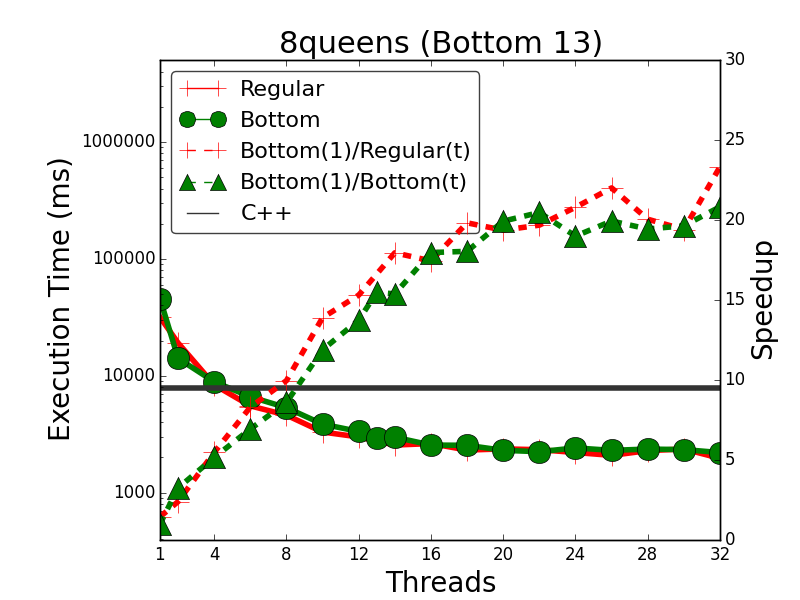
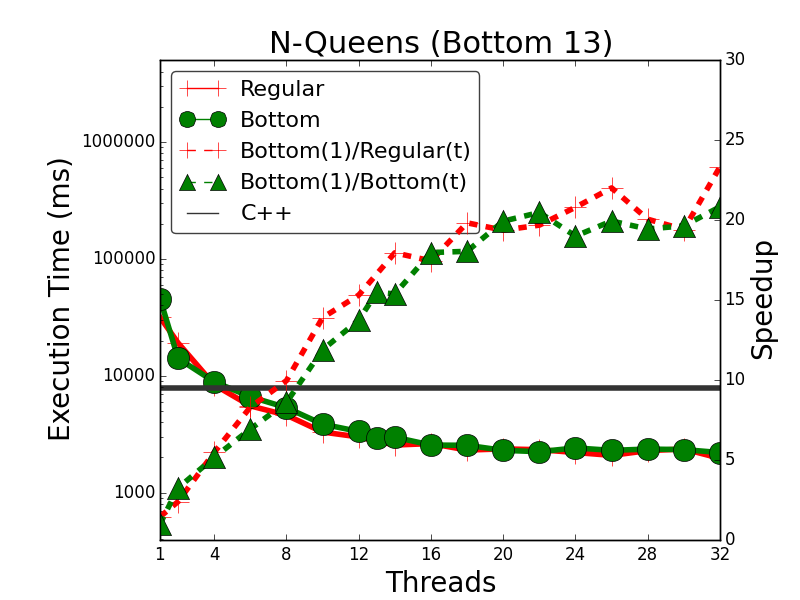
More corrections.

Changed region(s): [[0.3125, 0.03, 0.7812, 0.09]]

diff --git a/statement.tex b/statement.tex
@@ -1,13 +1,15 @@
 
 We propose a new linear logic programming language, called Linear Meld~(LM),
-designed to write declarative parallel graph based programs for multicore
-architectures.  LM is a novel programming language that makes coordination a
-first-class programming construct and semantically equivalent to computation.
-Coordination allows the programmer to write declarative code that reasons about
-the underlying parallel architecture in order to improve the run time and
-scalability of programs. Since LM is based on logical foundations, programs are
-amenable to reasoning, even in the presence of coordination. We will support our
-thesis through seven major contributions:
+designed to write \textbf{declarative parallel graph based programs} for
+multicore architectures. LM is a novel programming language that makes
+\textbf{coordination} a first-class programming construct that is
+\textbf{semantically equivalent to computation}. Coordination allows the
+programmer to write declarative code that reasons about the underlying parallel
+architecture in order to improve the run time and scalability of programs. Since
+LM is based on logical foundations, programs are amenable to reasoning, even in
+the presence of coordination.
+
+We support our thesis through seven major contributions:
 
 \begin{description}
    
@@ -27,14 +29,14 @@ thesis through seven major contributions:
    computation and partitions data and is semantically equivalent to standard
    computation facts. We used the concept of action facts and sensing facts to
    coordinate the execution of programs. We can increase the priority of certain
-   nodes during runtime according to the state of the computation and to the
-   state of the runtime in order to make better scheduling decisions so that
-   programs can be more scalable and run faster.
+   nodes according to the state of the computation and to the state of the
+   runtime in order to make better scheduling decisions so that programs can be
+   more scalable and run faster.
 
    \item[Thread-Based Facts]
 
    While LM can be classified as a programming language with implicit
-   parallelism, it introduces thread facts to support some form of explicit
+   parallelism, it introduces thread facts to support some form of declarative explicit
    parallelism. Thread facts allow the programmer to reason about the state of
    the underlying parallel architecture, namely the execution thread, by
    managing facts about each thread. Thread facts can be used along with regular
@@ -46,9 +48,10 @@ thesis through seven major contributions:
    
    \item[Provability]
    
-   We leveraged the logical foundations of LM to show how to prove correctness
+   We leveraged the logical foundations of LM to show how to prove the correctness
    of programs. We also show that coordination facts do not change those
-   correctness proofs but only improve run time, scalability or memory usage.
+   correctness proofs but only improve run time, scalability or memory usage. We
+   also show how to reason with thread-based facts.
 
 \item[Efficient Runtime and Compilation]
 
@@ -58,7 +61,7 @@ thesis through seven major contributions:
    structures. We have achieved a sequential performance that is less than one
    order of magnitude slower than hand-written sequential C++ programs and is
    competitive with some more mature frameworks such as
-   GraphLab~\cite{GraphLab2010}.
+   GraphLab~\cite{GraphLab2010} or Ligra~\cite{Shun:2013:LLG:2517327.2442530}.
 
 \item[Multicore Parallelism]
    

diff --git a/introduction.tex b/introduction.tex
@@ -31,19 +31,21 @@ In the context of the Claytronics project~\cite{goldstein-computer05},
 Ashley-Rollman et al.~\cite{ashley-rollman-iclp09,
 ashley-rollman-derosa-iros07wksp} created Meld, a logic programming language
 suited to program massively distributed systems made of modular robots with a
-dynamic topology. Meld programs can derive actions that are used to make the
-robots act on the outside world. The distribution of computation is done by
+dynamic topology. Meld programs can derive actions that are used by the
+robots to act on the outside world. The distribution of computation is done by
 first partitioning the program state across the robots and then by making the
 computation local to the robot. Because Meld programs are sets of logical
-clauses, they are more amenable to proofs.
+clauses, they are more amenable to proofs than programs written using
+lower-level programming abstractions.
 
 In this thesis, we present Linear Meld (LM), a new language for parallel
-programming over graph data structures that extends the original Meld with
-linear logic and coordination. Linear logic gives the language a structured way
-to manage state, allowing the programmer to assert and retract logical facts.
-While the original Meld sees a running program as an ensemble of robots, LM sees
-the program as a graph of node data structures, where each node performs
-computation independently and is able to communicate with other nodes.
+programming over graph data structures that extends the original Meld
+programming language with linear logic and coordination. Linear logic gives the
+language a structured way to manage state, allowing the programmer to assert and
+retract logical facts.  While the original Meld sees a running program as an
+ensemble of robots, LM sees the program as a graph of node data structures,
+where each node performs computation independently of other nodes and is able to
+communicate with its neighborhood of nodes.
 
 LM introduces a new mechanism, called coordination, that is semantically
 equivalent to regular computation and allows the programmer to reason about

diff --git a/ack.tex b/ack.tex
@@ -2,10 +2,10 @@ I would like to thank my advisors, for their help and encouragement during the
 development of this thesis. I thank Prof. Ricardo Rocha for his help during
 implementation and debugging, for his suggestions and for his immense attention
 to detail. I thank Prof. Frank Pfenning for helping me understand proof theory
-and instilling me a sense of rigour about my work. I thank Prof. Seth Goldstein
+and for instilling a sense of rigour about my work. I thank Prof. Seth Goldstein
 for his great insights and for giving me the encourage to pursue the ideas I
 had during the last 4 years. I have certainly become a better researcher
-because of of you all.
+because of you all.
 
 Besides my advisors, I would like to express my gratitude to the following
 persons. A special acknowledgment to Prof. Fernando Silva, for encouraging me
@@ -13,7 +13,7 @@ to apply to the PhD program and for believing that I could do it.  To Michael
 Ashley-Rollman, for helping me understand his work on ensemble programming.
 This thesis would not be possible without his initial contribution.
 
-I am thankful to the Fundação para a Ciencia e Tecnologia (FCT) for the
+I am thankful to the Fundacao para a Ciencia e Tecnologia (FCT) for the
 research grant SFRH/BD/51566/2011, to the Center for Research and Advanced
 Computing Systems (CRACS), and to the Computer Science Department at CMU for
 their financial support.

diff --git a/threads/key_value.tex b/threads/key_value.tex
@@ -50,7 +50,7 @@ type linear cache-size(thread, int).
 replace(A, Key, RValue),*hfill*label{line:threads:kv_rule1_start}// Rule 1: key exists and is also in the cache
 value(A, Key, Value),
 *underline{cache(T, A, Key)}
-   -o value(A, Key, RValue).
+   -o value(A, Key, RValue),
       *underline{cache(T, A, Key)}.*label{line:threads:kv_rule1_end}
 
 replace(A, Key, RValue),*label{line:threads:kv_rule2_start}*hfill// Rule 2: key exists and is not in the cache

diff --git a/experiments/lib.py b/experiments/lib.py
@@ -847,7 +847,7 @@ class experiment(object):
       titlefontsize = 22
       ylabelfontsize = 20
       if name_coord:
-         ax.set_title(self.name + " (" + name_coord + " " + self.dataset + ")", fontsize=titlefontsize)
+         ax.set_title(name2title(self.name) + " (" + name_coord + " " + self.dataset + ")", fontsize=titlefontsize)
       else:
          ax.set_title(self.title, fontsize=titlefontsize)
       if not name_coord:
